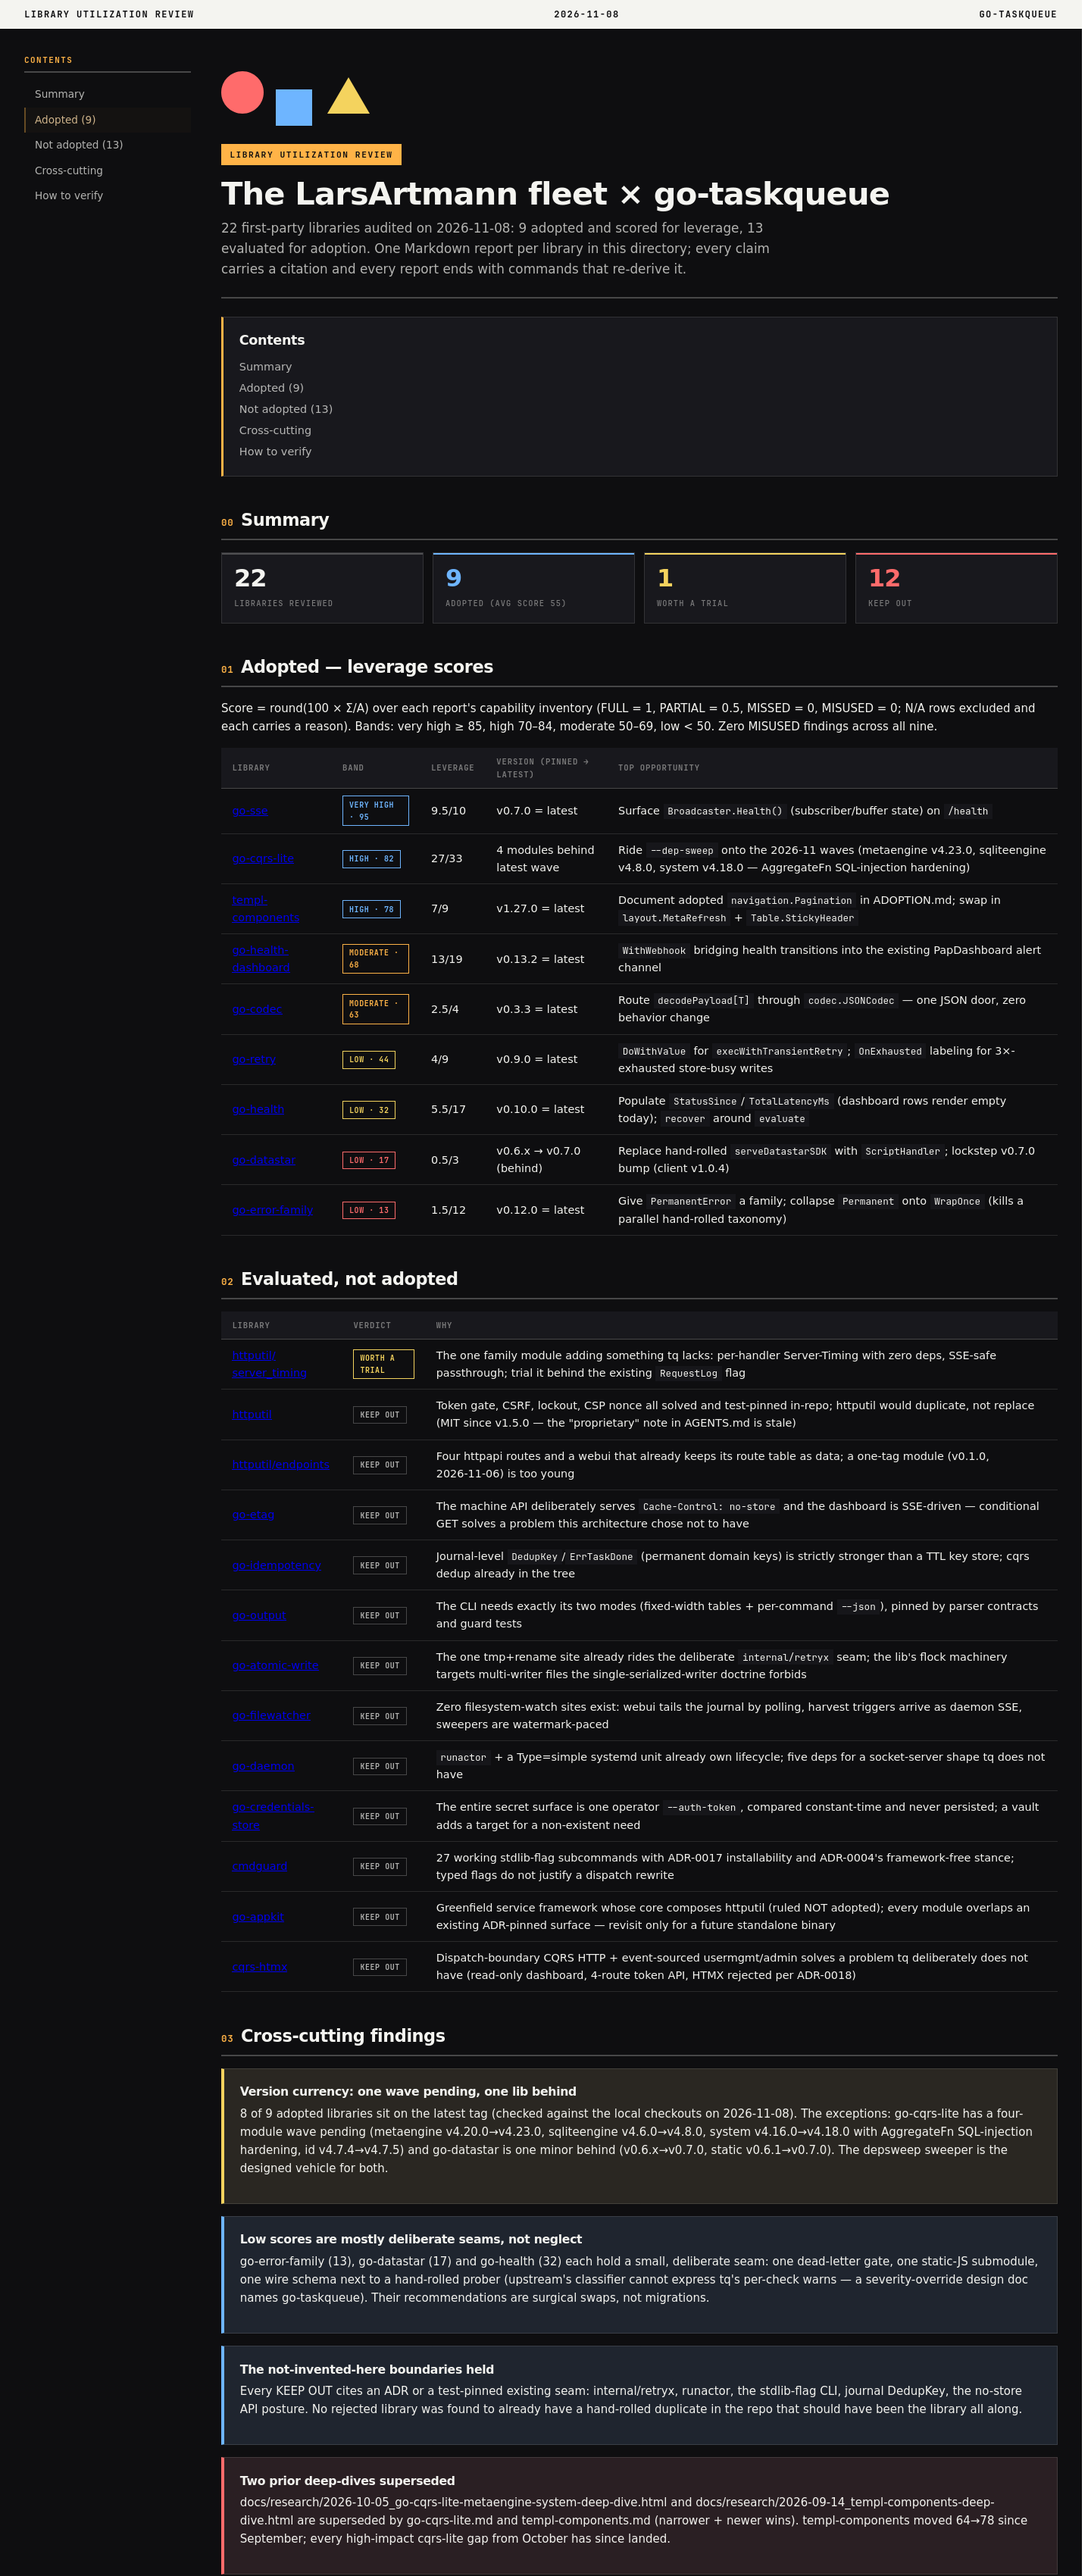
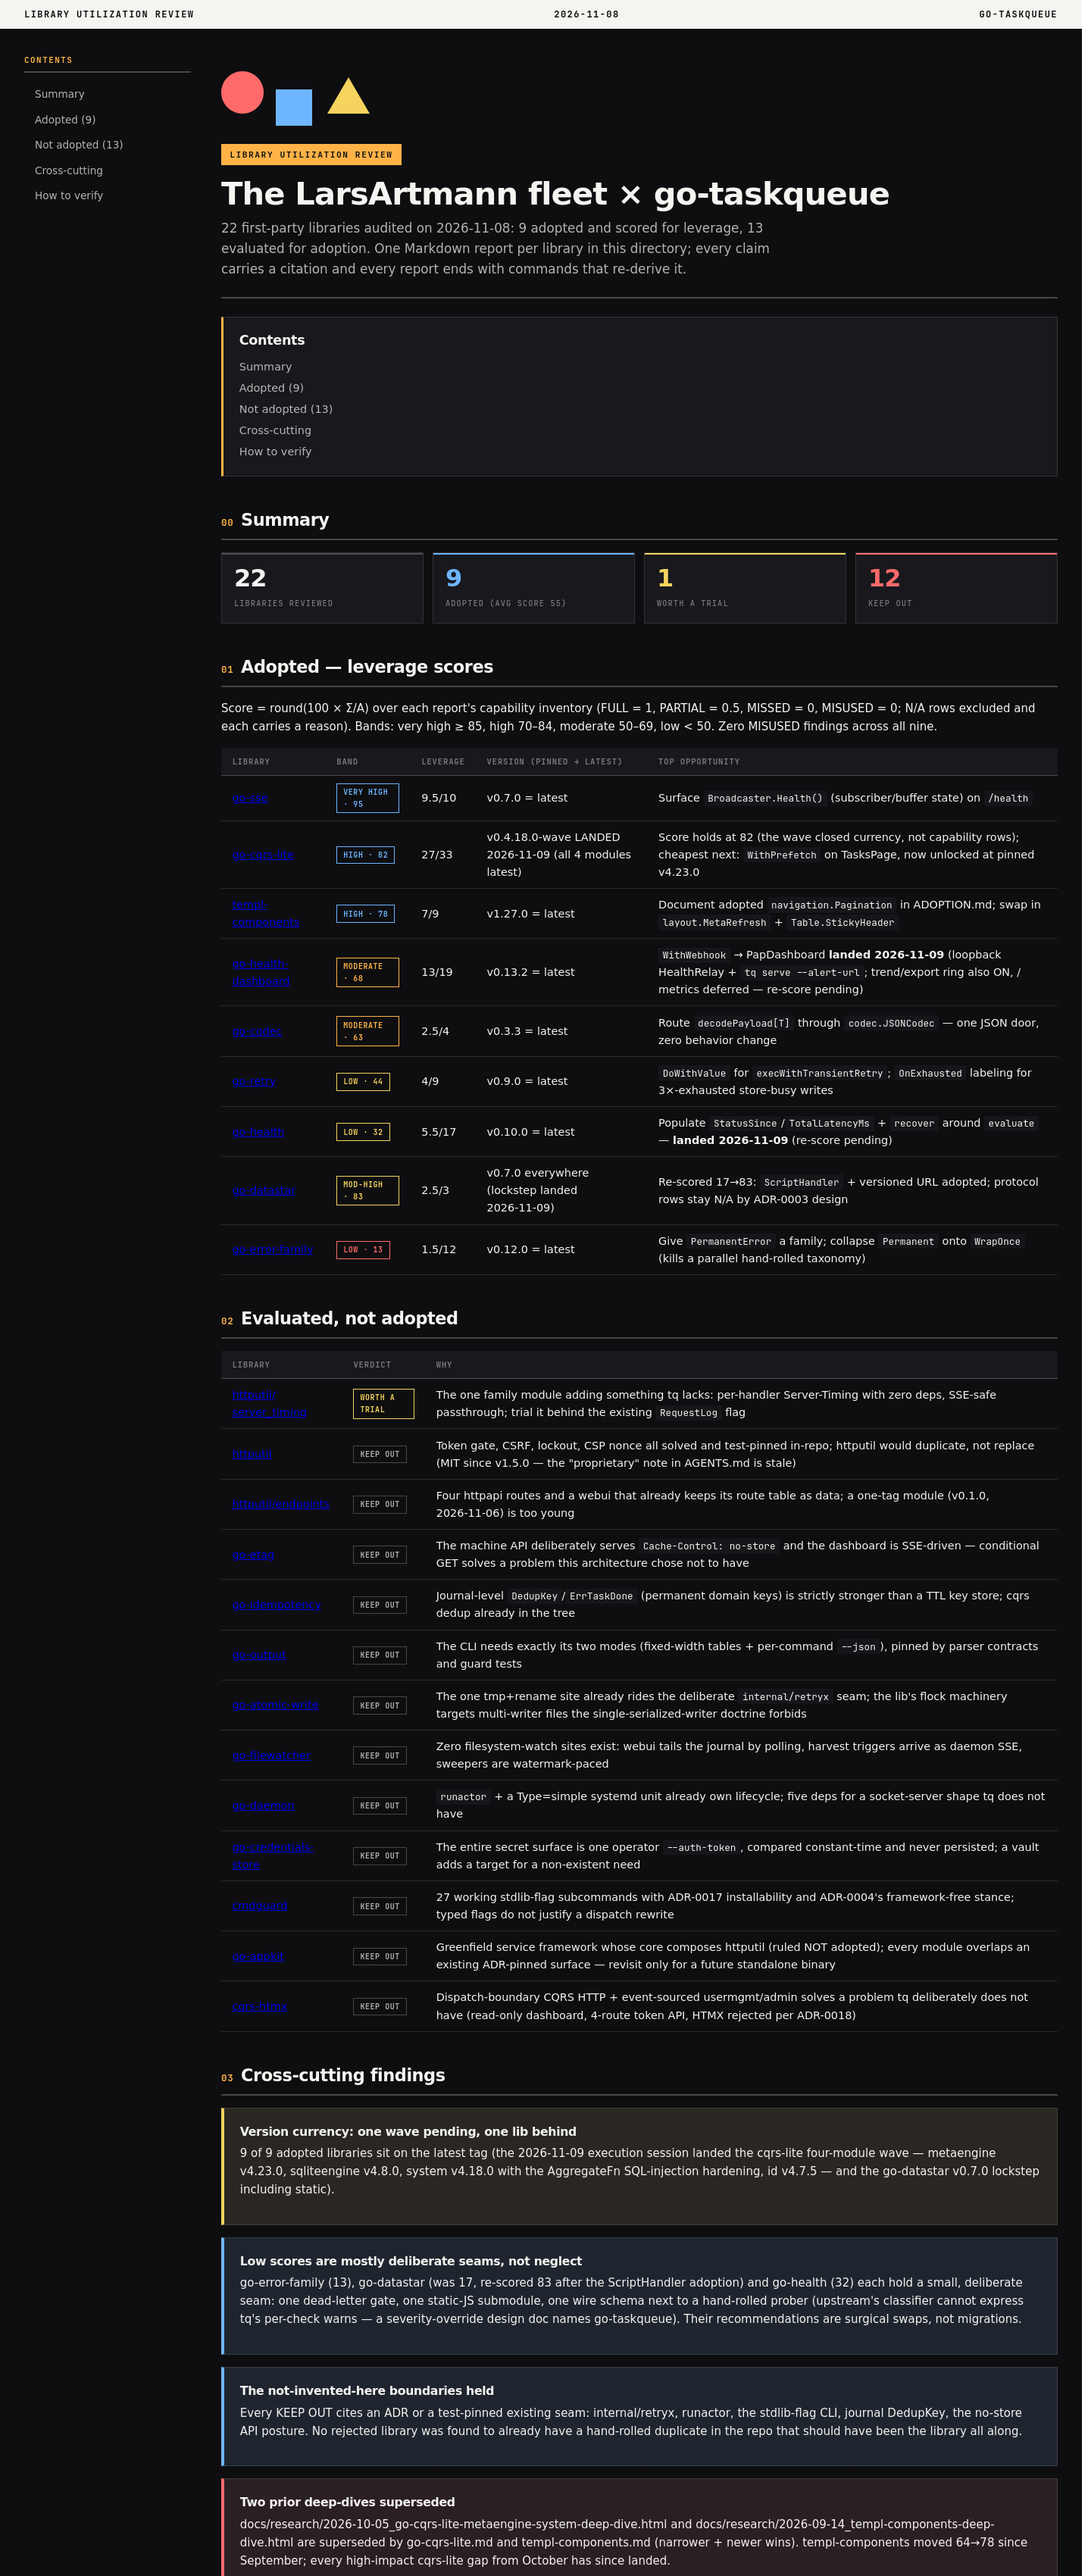
chore: auto-commit 4 changed file(s) (heuristic)
SECURITY.md
docs/review/libs/index.html
docs/review/libs/index.png
internal/webui/webui.go

Daemon: true

Changed region(s): [[0.1875, 0.2806, 0.9688, 1.0], [0.4375, 0.2806, 0.9375, 0.4988]]

diff --git a/docs/review/libs/index.html b/docs/review/libs/index.html
@@ -928,8 +928,8 @@
               <td><a href="go-cqrs-lite.md">go-cqrs-lite</a></td>
               <td><span class="badge badge-fixed">high &middot; 82</span></td>
               <td>27/33</td>
-              <td>4 modules behind latest wave</td>
-              <td>Ride <code>--dep-sweep</code> onto the 2026-11 waves (metaengine v4.23.0, sqliteengine v4.8.0, system v4.18.0 &mdash; AggregateFn SQL-injection hardening)</td>
+              <td>v0.4.18.0-wave LANDED 2026-11-09 (all 4 modules latest)</td>
+              <td>Score holds at 82 (the wave closed currency, not capability rows); cheapest next: <code>WithPrefetch</code> on TasksPage, now unlocked at pinned v4.23.0</td>
             </tr>
             <tr>
               <td><a href="templ-components.md">templ-components</a></td>
@@ -943,7 +943,7 @@
               <td><span class="badge badge-medium">moderate &middot; 68</span></td>
               <td>13/19</td>
               <td>v0.13.2 = latest</td>
-              <td><code>WithWebhook</code> bridging health transitions into the existing PapDashboard alert channel</td>
+              <td><code>WithWebhook</code> &rarr; PapDashboard <strong>landed 2026-11-09</strong> (loopback HealthRelay + <code>tq serve --alert-url</code>; trend/export ring also ON, /metrics deferred &mdash; re-score pending)</td>
             </tr>
             <tr>
               <td><a href="go-codec.md">go-codec</a></td>
@@ -964,14 +964,14 @@
               <td><span class="badge badge-high">low &middot; 32</span></td>
               <td>5.5/17</td>
               <td>v0.10.0 = latest</td>
-              <td>Populate <code>StatusSince</code>/<code>TotalLatencyMs</code> (dashboard rows render empty today); <code>recover</code> around <code>evaluate</code></td>
+              <td>Populate <code>StatusSince</code>/<code>TotalLatencyMs</code> + <code>recover</code> around <code>evaluate</code> &mdash; <strong>landed 2026-11-09</strong> (re-score pending)</td>
             </tr>
             <tr>
               <td><a href="go-datastar.md">go-datastar</a></td>
-              <td><span class="badge badge-critical">low &middot; 17</span></td>
-              <td>0.5/3</td>
-              <td>v0.6.x &rarr; v0.7.0 (behind)</td>
-              <td>Replace hand-rolled <code>serveDatastarSDK</code> with <code>ScriptHandler</code>; lockstep v0.7.0 bump (client v1.0.4)</td>
+              <td><span class="badge badge-high">mod-high &middot; 83</span></td>
+              <td>2.5/3</td>
+              <td>v0.7.0 everywhere (lockstep landed 2026-11-09)</td>
+              <td>Re-scored 17&rarr;83: <code>ScriptHandler</code> + versioned URL adopted; protocol rows stay N/A by ADR-0003 design</td>
             </tr>
             <tr>
               <td><a href="go-error-family.md">go-error-family</a></td>
@@ -1068,21 +1068,19 @@
         <div class="card card-warning">
           <h4>Version currency: one wave pending, one lib behind</h4>
           <p>
-            8 of 9 adopted libraries sit on the latest tag (checked against the
-            local checkouts on 2026-11-08). The exceptions: go-cqrs-lite has a
-            four-module wave pending (metaengine v4.20.0&rarr;v4.23.0,
-            sqliteengine v4.6.0&rarr;v4.8.0, system v4.16.0&rarr;v4.18.0 with
-            AggregateFn SQL-injection hardening, id v4.7.4&rarr;v4.7.5) and
-            go-datastar is one minor behind (v0.6.x&rarr;v0.7.0, static
-            v0.6.1&rarr;v0.7.0). The depsweep sweeper is the designed vehicle
-            for both.
+            9 of 9 adopted libraries sit on the latest tag (the 2026-11-09
+            execution session landed the cqrs-lite four-module wave &mdash;
+            metaengine v4.23.0, sqliteengine v4.8.0, system v4.18.0 with the
+            AggregateFn SQL-injection hardening, id v4.7.5 &mdash; and the
+            go-datastar v0.7.0 lockstep including static).
           </p>
         </div>
 
         <div class="card card-solution">
           <h4>Low scores are mostly deliberate seams, not neglect</h4>
           <p>
-            go-error-family (13), go-datastar (17) and go-health (32) each hold
+            go-error-family (13), go-datastar (was 17, re-scored 83 after the
+            ScriptHandler adoption) and go-health (32) each hold
             a small, deliberate seam: one dead-letter gate, one static-JS
             submodule, one wire schema next to a hand-rolled prober (upstream's
             classifier cannot express tq's per-check warns &mdash; a

diff --git a/internal/webui/webui.go b/internal/webui/webui.go
@@ -360,7 +360,8 @@ func (s *Server) writeBindings() []struct {
 //	GET /api/facts         JSON journal cursor (?after=SEQ&limit=N)
 //
 // The go-health-dashboard surface (healthBindings) mounts on top: /health,
-// /health/sse, /health/datastar.js, /health/favicon.svg, and the JSON
+// /health/sse, /health/datastar.js, /health/favicon.svg, the trend ring
+// (/health/trend + /health/export), and the JSON
 // probes /healthz, /readyz, /startupz — all read-only, all behind the same
 // auth gate; the /health page runs the dashboard's own CSP (health.go).
 //

diff --git a/SECURITY.md b/SECURITY.md
@@ -143,7 +143,7 @@ in the same change.
 | `Referrer-Policy`         | `no-referrer`                                                                                                                                                                                                                                                                                                                                                                    | —                                               |
 | `Permissions-Policy`      | camera, microphone, geolocation denied                                                                                                                                                                                                                                                                                                                                           | —                                               |
 | `X-Robots-Tag`            | `noindex` on `/health*` (task pages carry a robots meta instead)                                                                                                                                                                                                                                                                                                                 | —                                               |
-| `Cache-Control`           | `public, max-age=86400` on the embedded health SDK bundle and favicon; health HTML/SSE carry the library's `no-cache`; task HTML and SSE unset                                                                                                                                                                                                                                   | `no-store` on authenticated responses           |
+| `Cache-Control`           | `public, max-age=86400` on the embedded health SDK bundle and favicon; health HTML/SSE plus the trend/export endpoints carry the library's `no-cache`; task HTML and SSE unset                                                                                                                                                                                                                                    | `no-store` on authenticated responses           |
 | `ETag`                    | quoted truncated SHA-256 content digest on the embedded health SDK bundle (`/health/datastar.js`, served by `datastar.ScriptHandler`; `If-None-Match` answers 304)                                                                                                                                                                                                               | —                                               |
 | `WWW-Authenticate`        | `Bearer realm="tq dashboard"` on 401                                                                                                                                                                                                                                                                                                                                             | `Bearer realm="tq-api"` on 401                  |
 | `Retry-After`             | 429 from the write-route CSRF lockout                                                                                                                                                                                                                                                                                                                                            | 429 from the bearer-auth lockout                |
